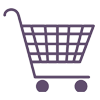
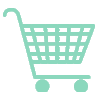
mas estilos

Changed region(s): [[0.03, 0.06, 0.96, 0.93]]

diff --git a/src/Contolador/RecuadroFlor.jsx b/src/Contolador/RecuadroFlor.jsx
@@ -2,6 +2,8 @@ import React, { useState, useEffect } from 'react';
 import Card from 'react-bootstrap/Card';
 import Button from 'react-bootstrap/Button';
 import MostrarCarrito from './MostrarCarrito';
+import { Col, Container, Row } from 'react-bootstrap';
+
 
 
 const RecuadroFlor = ({ imagenes, eleccion }) => {
@@ -64,23 +66,37 @@ const RecuadroFlor = ({ imagenes, eleccion }) => {
 
   return (
     <>
+       <Container className="container">
+          <Row className="eleccionRow">
+            <Col md={4} xs={12}>
+              <MostrarCarrito productos={productos} setProductos={setProductos} ></MostrarCarrito>
+            </Col>
+            <Col md={8} xs={12}>
+              <Card style={{ width: '18rem' }}>
+                <Card.Img
+                    variant="top"
+                    src={imagenActual.url}
+                    alt={`imagen ${imagenActual.id}`}
+                    className="img-fluid carruImg"
+                />
+                <Card.Body className='carruBody'>
+                  <Card.Title>{imagenActual.title}</Card.Title>
+                    <Card.Subtitle>$ {imagenActual.precio}</Card.Subtitle>
+                    <Button className='botonPri' size="sm" variant="primary" onClick={agregarProducto}>
+                      Añadir al carrito
+                    </Button>
+                  </Card.Body>
+                </Card>
+            </Col>
+           
+          </Row>
+          
+          </Container>
       
-      <Card style={{ width: '18rem' }}>
-        <Card.Img
-          variant="top"
-          src={imagenActual.url}
-          alt={`imagen ${imagenActual.id}`}
-          className="img-fluid carruImg"
-        />
-        <Card.Body>
-          <Card.Title>{imagenActual.title}</Card.Title>
-          <Card.Subtitle>$ {imagenActual.precio}</Card.Subtitle>
-          <Button variant="primary" onClick={agregarProducto}>
-            Añadir al carrito
-          </Button>
-        </Card.Body>
-      </Card>
-      <MostrarCarrito productos={productos} setProductos={setProductos} ></MostrarCarrito>
+          
+       
+     
+    
     
      </>
   );

diff --git a/src/Contolador/EleccionFlor.jsx b/src/Contolador/EleccionFlor.jsx
@@ -1,6 +1,6 @@
 import React, { useState } from 'react';
 import { Form, Button } from 'react-bootstrap';
-
+import './controlador.css';
 
 
 const EleccionFlor = ({ cantidad, colorFlor, colorLazo, onEleccion }) => {
@@ -18,10 +18,10 @@ const EleccionFlor = ({ cantidad, colorFlor, colorLazo, onEleccion }) => {
   };
 
   return (
-    <Form>
+    <Form className='formulario'>
       <Form.Group controlId="cantidad">
         <Form.Label>Cantidad de flores</Form.Label>
-        <Form.Control
+        <Form.Control className='formControl'
           as="select"
           value={selectedCantidad}
           onChange={(e) => setSelectedCantidad(e.target.value)}
@@ -34,7 +34,7 @@ const EleccionFlor = ({ cantidad, colorFlor, colorLazo, onEleccion }) => {
 
       <Form.Group controlId="colorFlor">
         <Form.Label>Color de la flor</Form.Label>
-        <Form.Control
+        <Form.Control  className='formControl'
           as="select"
           value={selectedColorFlor}
           onChange={(e) => setSelectedColorFlor(e.target.value)}
@@ -47,7 +47,7 @@ const EleccionFlor = ({ cantidad, colorFlor, colorLazo, onEleccion }) => {
 
       <Form.Group controlId="colorLazo">
         <Form.Label>Color del lazo</Form.Label>
-        <Form.Control
+        <Form.Control  className='formControl'
           as="select"
           value={selectedColorLazo}
           onChange={(e) => setSelectedColorLazo(e.target.value)}
@@ -58,7 +58,7 @@ const EleccionFlor = ({ cantidad, colorFlor, colorLazo, onEleccion }) => {
         </Form.Control>
       </Form.Group>
 
-      <Button className='eleccionBoton' variant="primary" onClick={handleEleccion}>
+      <Button className='eleccionBoton botonPri' size="sm"variant="primary" onClick={handleEleccion}>
         Realizar Elección
       </Button>
     </Form>

diff --git a/src/Vista/Carrito.jsx b/src/Vista/Carrito.jsx
@@ -16,26 +16,34 @@ const Carrito = ({ productos, onEliminarProducto }) => {
     <>
       <ul>
         <li>
-          Carrito: <span className='cart-count'>{productos.length}</span>
+          <b>Carrito:</b> <span className='cart-count'>{productos.length}</span>
         </li>
         <li>
-          Productos seleccionados:
+          <b>Productos:</b>
           {productos.length > 0 ? (
             <ul>
               {productos.map((producto) => (
-                <li key={producto.id}>
-                  {producto.title} - Cantidad: {producto.seleccionado} - Precio: ${producto.precio * producto.seleccionado}
+                <li className="seleccionados"key={producto.id}>
                   <Button className='botonElim'  variant="outline-danger "  size="sm"onClick={() => eliminarProducto(producto.id)}>
                   <img src="./Img/eliminar.png" alt="Eliminar" width={10} height={10} />
                   </Button>
+                  <b>{producto.title}</b> <br/> Cantidad: {producto.seleccionado} <br/> Precio: $ {producto.precio * producto.seleccionado}
+                  
                 </li>
               ))}
             </ul>
           ) : (
-            <p>No hay productos seleccionados.</p>
+            <p><b>No hay productos seleccionados.</b></p>
           )}
         </li>
-        <li>Precio Total: ${precioTotal}</li>
+        <li className='precioTotal'><b>Precio Total:</b> ${precioTotal}</li>
+        <li>
+          {productos.length > 0 && (
+            <Button className='botonPri'  size="sm"  variant="success" >
+              Iniciar compra
+            </Button>
+          )}
+        </li>
       </ul>
     </>
   );

diff --git a/src/Modelo/SeccionModelo.jsx b/src/Modelo/SeccionModelo.jsx
@@ -16,9 +16,11 @@ const SeccionModelo = ({ imagenes}) => {
 
   return (
 
-    <>    
-    <h3>Selecciona el ramo que mas te guste</h3>
-    <Container className="contSeccion">
+    <>  
+    <div>  
+    <h3>Selecciona tu ramo</h3>
+    <p>Explora nuestra exquisita colección de ramos y encuentra la expresión perfecta de tus sentimientos. Cada ramo está cuidadosamente diseñado para transmitir emociones únicas. ¿Con cuál te quedaras hoy?</p>
+    <Container className="container">
       <Row className='contRow'>
         {imagenes.map((imagen) => (
           <Col key={imagen.id} xs={12} md={3} lg={3}>
@@ -29,17 +31,18 @@ const SeccionModelo = ({ imagenes}) => {
                 alt={`imagen ${imagen.id}`}
                 
               />
-              <Card.Body>
+              <Card.Body className="carruBody">
                 <Card.Title>{imagen.title}</Card.Title>
                 <Card.Text>{imagen.description}</Card.Text>
-                <Button variant="primary" onClick={() => handleButtonClick()}>Arma tu ramo</Button>
+                <Button  className="botonPri"  size="sm"variant="primary" onClick={() => handleButtonClick()}>Arma tu ramo</Button>
               </Card.Body>
             </Card>
           </Col>
         ))}
       </Row>
     </Container>
-    </>
+    </div>
+  </>
 
   );
 };

diff --git a/src/Modelo/ArmarModelo.jsx b/src/Modelo/ArmarModelo.jsx
@@ -17,13 +17,19 @@ const ArmarModelo = ({ imagenes, cantidad, colorFlor, colorLazo }) => {
 
   return (
     <>
+    <div className='armarRamo'>
+      <h3>Arma tu diseño</h3>
+      <p>Aquí es donde la creatividad y la personalización se unen para crear ramos únicos que reflejan tu estilo
+         y emociones. Sumérgete en nuestro catálogo de flores frescas y vibrantes, y da rienda suelta a tu imaginación 
+         para diseñar el ramo perfecto.</p>
+      <h5> ¡Comienza a diseñar y lleva contigo la frescura y elegancia de Flor de Lis!</h5>
       <Container className="container">
         <Row className="eleccionRow">
-          <Col md={4} xs={12}>
+          <Col md={7} xs={12}>
           <RecuadroFlor imagenes={imagenes} eleccion={eleccion} />
           </Col>
     
-          <Col md={8} xs={12}>
+          <Col md={5} xs={12}>
             <EleccionFlor
               cantidad={cantidad}
               colorFlor={colorFlor}
@@ -33,6 +39,7 @@ const ArmarModelo = ({ imagenes, cantidad, colorFlor, colorLazo }) => {
           </Col>
         </Row>
       </Container>
+      </div>
     </>
   );
 };

diff --git a/src/Contolador/controlador.css b/src/Contolador/controlador.css
@@ -1,0 +1,26 @@
+
+
+.formulario{
+    font-family: 'Raleway','Segoe UI', Tahoma, Verdana, sans-serif!important;
+    font-weight: bold!important;
+    color: #568675!important;
+}
+
+.formControl{
+    color: #a6a1a1!important;
+}
+
+.botonPri{
+    background-color:  #568675!important;
+    color: #ffffff!important;
+    font-family: 'Raleway','Segoe UI', Tahoma, Verdana, sans-serif!important;
+    border: #70b69d!important;
+    margin-top: 4%;
+  }
+
+  .carruBody{
+    color: #868585!important;
+    background-color:  #e6e6e6!important;
+    font-weight: bold!important;
+    font-family: 'Raleway','Segoe UI', Tahoma, Verdana, sans-serif;
+  }

diff --git a/src/Modelo/modelo.css b/src/Modelo/modelo.css
@@ -5,6 +5,11 @@ h3{
   font-family: 'Raleway','Segoe UI', Tahoma, Verdana, sans-serif;
   font-weight: bold!important;
   color: #8bd8bd!important;
+}
+h5{
+  font-family: 'Raleway','Segoe UI', Tahoma, Verdana, sans-serif;
+  font-weight: bold!important;
+  color: #8bd8bd!important;
  
 }
 p{
@@ -108,4 +113,22 @@ p{
 
 .eleccionBoton{
   margin-top: 2%;
+}
+
+.seleccionados{
+  padding-top: 5%;
+  padding-bottom: 5%;
+}
+
+li{
+  color: #868585!important;
+  font-family: 'Raleway','Segoe UI', Tahoma, Verdana, sans-serif;
+  padding-bottom: 3%;
+}
+.precioTotal{
+  color: #70b69d!important;
+}
+
+.botonElim{
+  margin-right: 3% ;
 }

diff --git a/src/Vista/vista.css b/src/Vista/vista.css
@@ -21,3 +21,19 @@
     color: #ffffff;
  
 }
+p{
+    font-family: 'Raleway','Segoe UI', Tahoma, Verdana, sans-serif;
+}
+ul {
+    font-family: 'Raleway','Segoe UI', Tahoma, Verdana, sans-serif;
+    list-style: none;
+    padding: 0;
+    margin: 0;
+  }
+
+.seleccionados{
+    margin-top: 2%;
+    margin-bottom: 2%;
+    padding: 2%;
+    background-color: #e6e6e6;
+}

diff --git a/src/Vista/ArmarVista.jsx b/src/Vista/ArmarVista.jsx
@@ -53,8 +53,8 @@ const ArmarVista = () => {
 
       return (
         <>
-          <div>
-            <h1>Lista de Tarjetas</h1>
+          <div  className='presentacion'>
+            
                 <ArmarModelo 
                 imagenes={cards} 
                 cantidad={cantidades}

diff --git a/src/Vista/SeccionVista.jsx b/src/Vista/SeccionVista.jsx
@@ -99,8 +99,7 @@ const SeccionVista = () => {
 
   return (
     <>
-      <div>
-        <h1>Seccion de ramo</h1>
+      <div className='presentacion'>
           <SeccionModelo imagenes={imagenesFiltradas} />
       </div>
     </>
